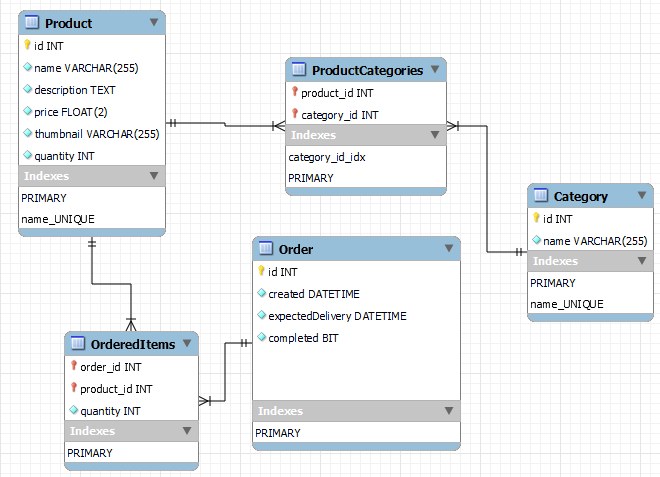
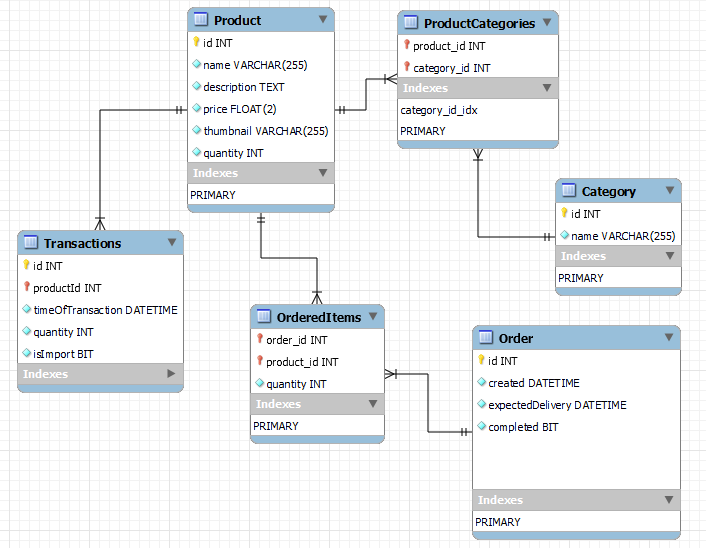
readme.md updated

diff --git a/readme.md b/readme.md
@@ -1,15 +1,21 @@
 # Inventory management system
 
-## Database layout
+## About this program
 
-### MySQL or H2-database
+This is an inventory management system written in Spring Boot framework.
+You can find a more detailed documentation of this program in the [wiki](https://github.com/DorkArn02/Inventory_management_system/wiki) of this repository.
 
-![Database layout](database_layout.png)
+## Database layout in MySQL Workbench
+
+![img.png](database_layout.png)
 
 ## API endpoints
 
 ### Swagger REST API docs:
 http://localhost:8080/swagger-ui/index.html#/
+
+### Postman file used for testing:
+https://pastebin.com/8A2jGZPh
 
 ### product-controller
 - GET all products `:8080/api/products`
@@ -43,12 +49,17 @@ http://localhost:8080/swagger-ui/index.html#/
 - DELETE, remove some product from storage `:8080/api/storage/{productId}`
 - GET the content of storage `:8080/api/storage/`
 
+### transaction-controller
+- GET all transactions: `:8080/api/transaction`
+- GET transaction by id: `:8080/api/transaction/{transactionId}`
+
 ## Models
 
 - Product
 - Category
 - Order
 - OrderedItems
+- Transaction
 
 ## Example POST requests:
 
@@ -78,10 +89,12 @@ http://localhost:8080/swagger-ui/index.html#/
 
 ## Thumbnail location 
 
-Go to the `application.properties` and edit `image_location` property
-The products' thumbnails will save in this folder.
+The default folder for thumbnails is set to `C:\Users\YOURUSERNAME\Inventory_management_system\public`
 
-If you add a new product to the database the `thumbnail` property value will be automatically set to `default.png`.
+Go to the `application.properties` and edit `image_location` property to change
+
+The thumbnails of the products will be saved in this folder.
+
 
 ## Configure mysql database with XAMPP
 1. Go to phpmyadmin and create a new database
@@ -98,3 +111,13 @@ If you add a new product to the database the `thumbnail` property value will be 
 4. `spring.datasource.username=YOUR USERNAME` 
 5. `spring.datasource.password=YOUR PASSWORD`
 6. `spring.jpa.database-platform=org.hibernate.dialect.H2Dialect`
+
+## How to deploy the application with maven
+1. maven clean -f pom.xml
+2. maven package -f pom.xml
+3. `.jar` file will be generated in the target directory
+
+## How to start the Spring Boot backend:
+1. Start the database server
+2. Make a `start.bat` file with this line `java -jar <JARNAME.jar> `
+3. Logs will be generated in the subdirectory `logs`
